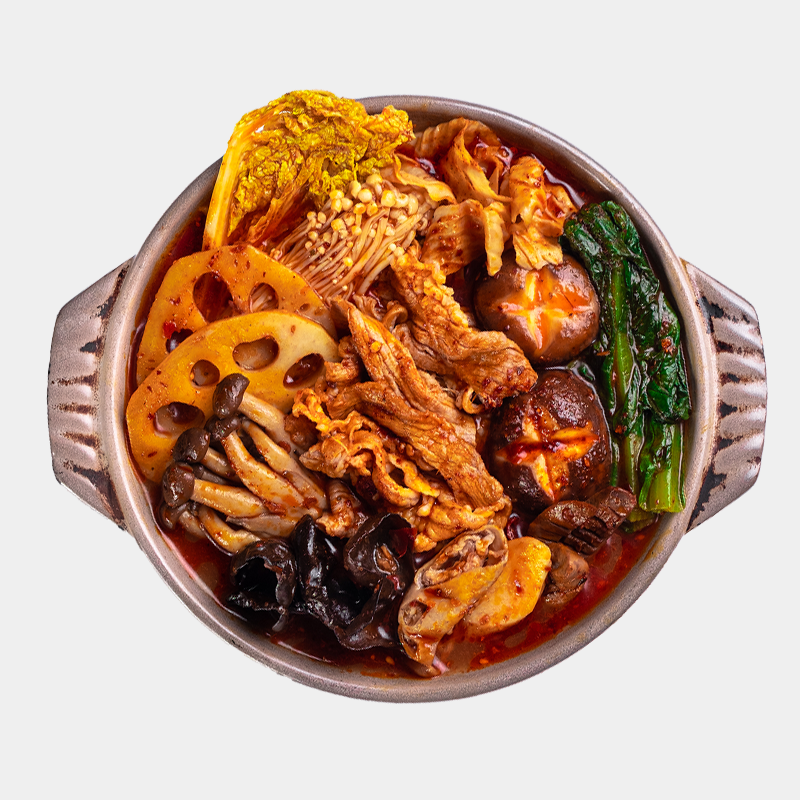
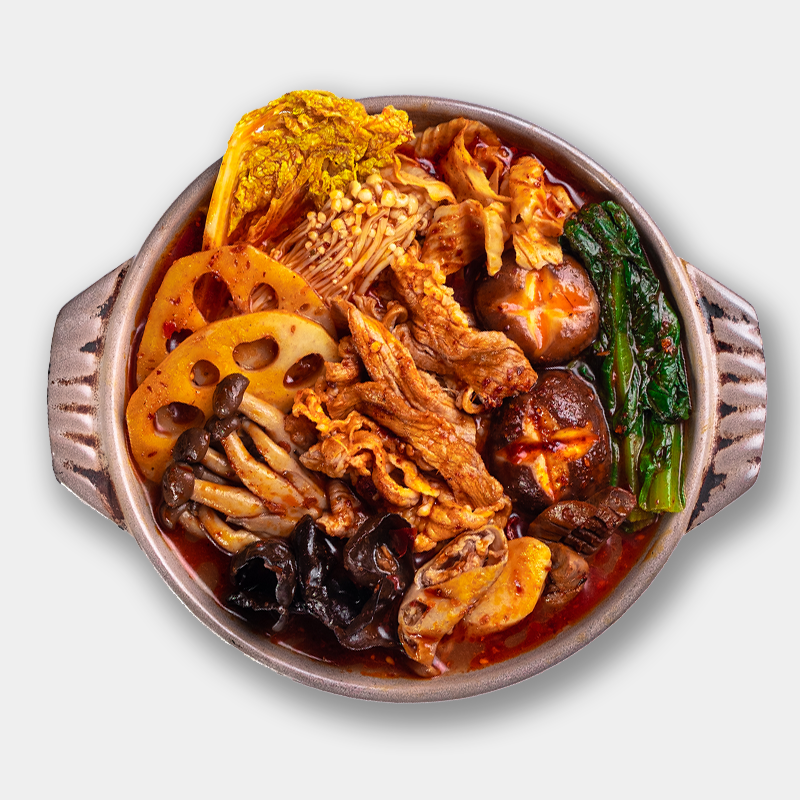
Added shadows to bowl images

diff --git a/landing-page/index.html b/landing-page/index.html
@@ -79,7 +79,7 @@
                             </div>
                             <div class="flex-column-item" id="favorite-bowls">
                                 <div class="bowl-img">
-                                    <img src="./images/MeatOverloadBowl2.png">
+                                    <img src="./images/MeatOverloadBowl.png">
                                 </div>
                                 <h5>Meat Overload</h5>
                             </div>
